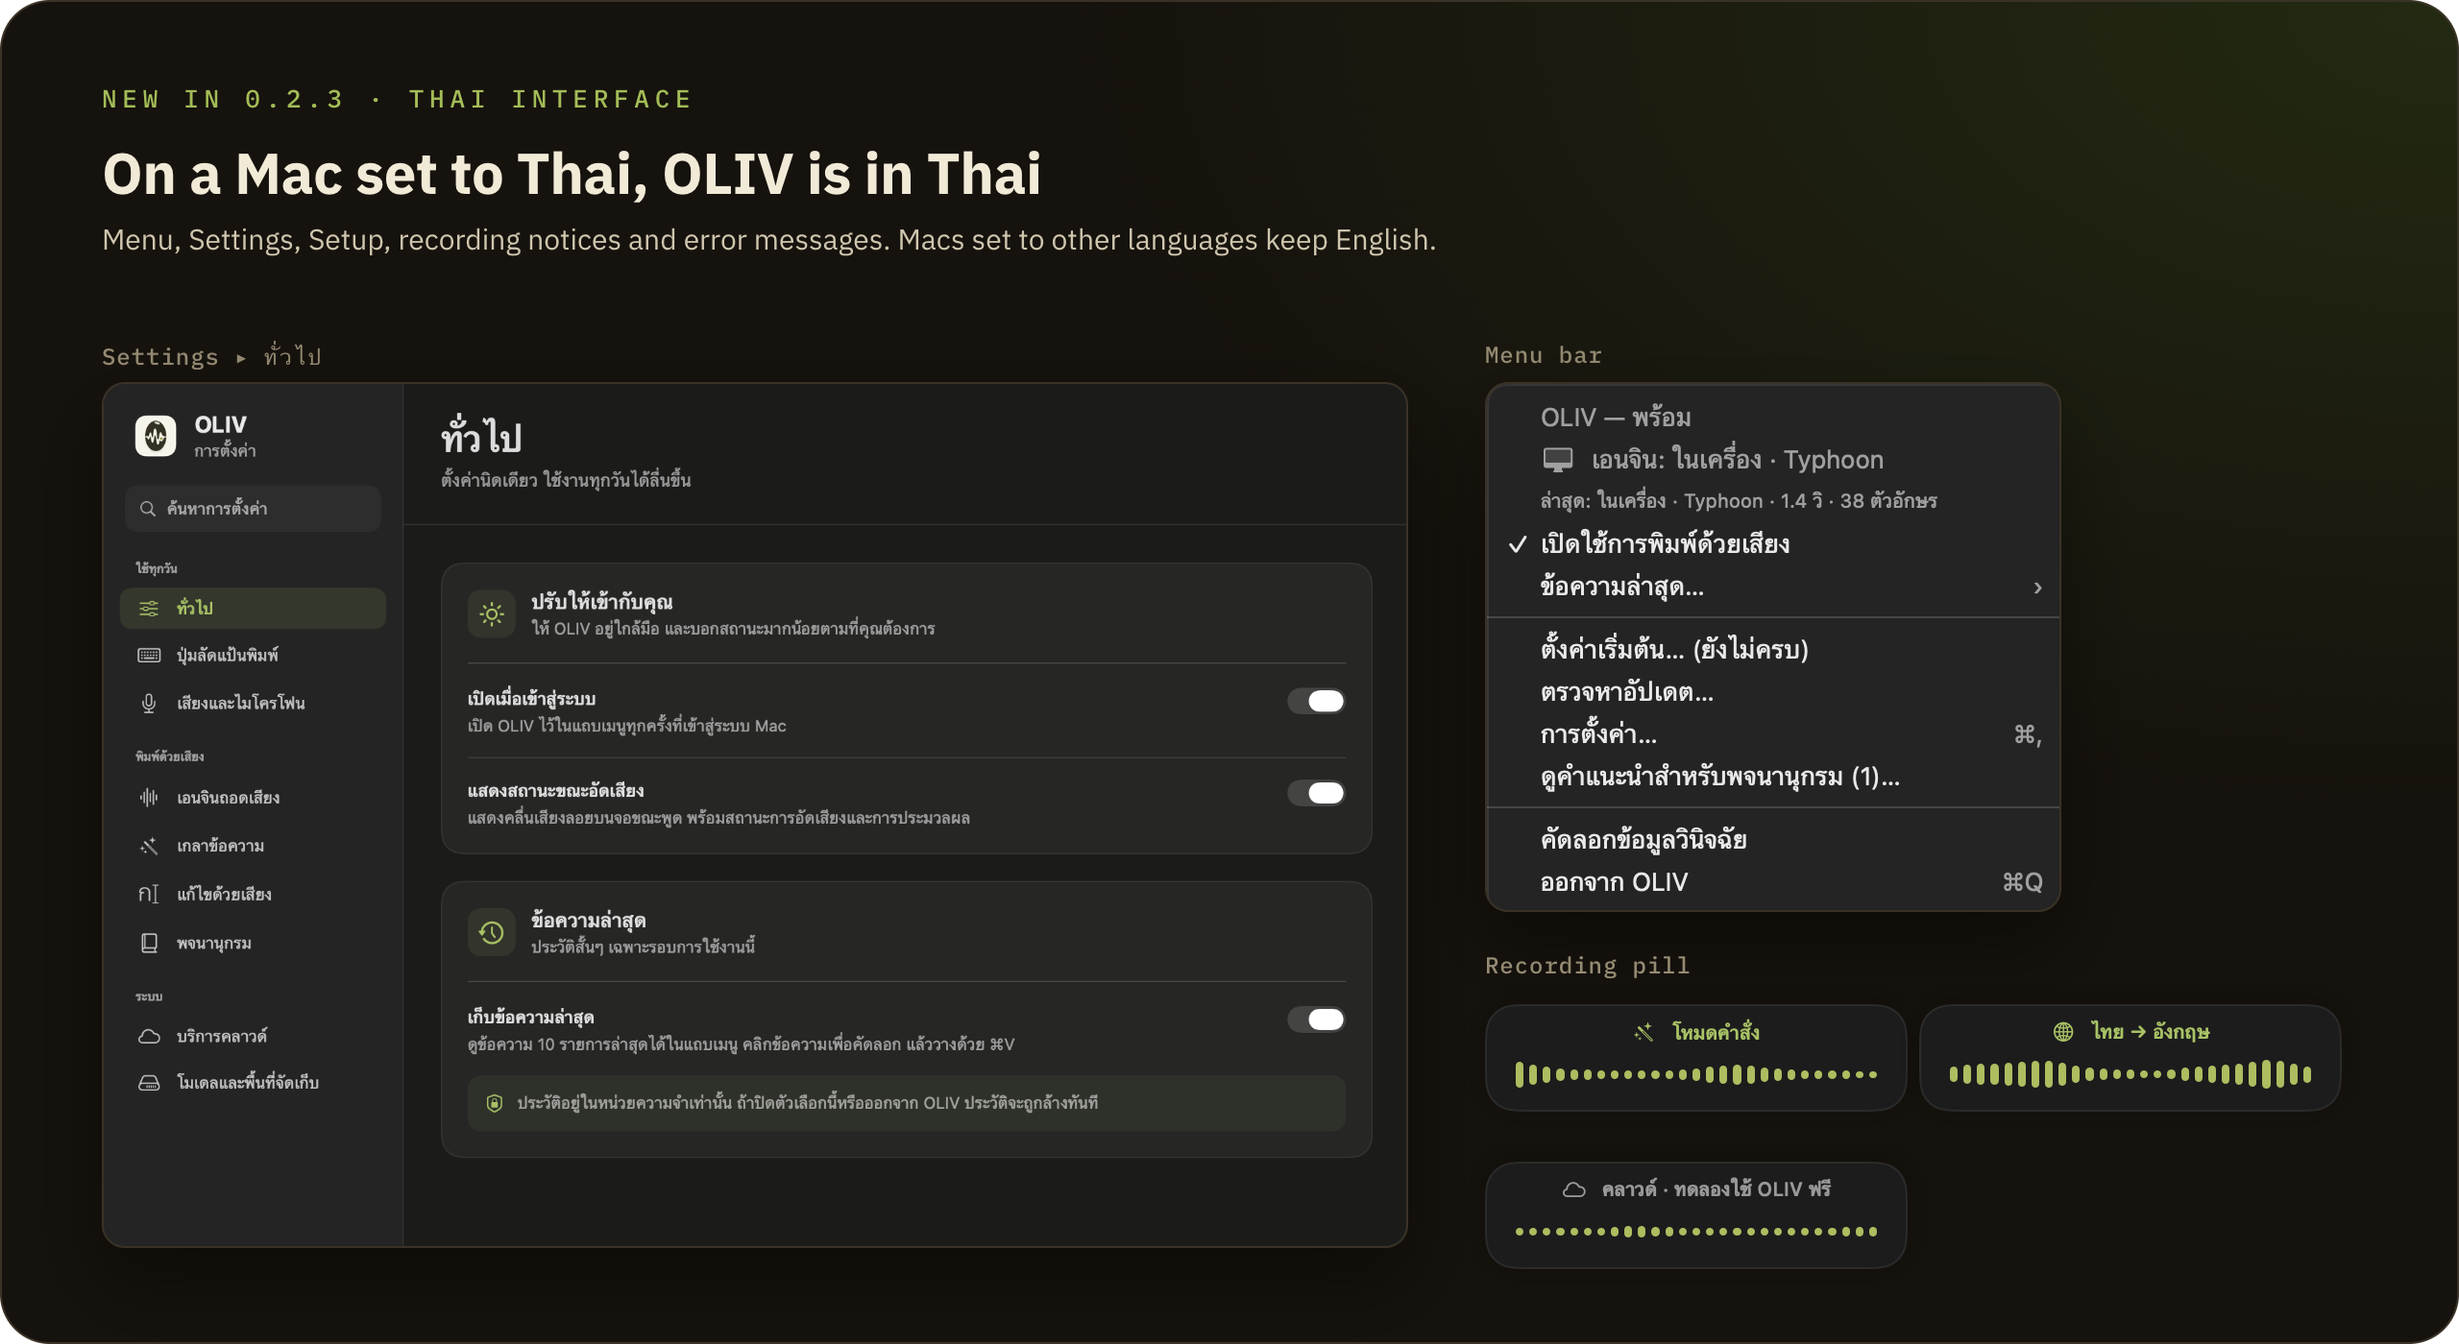
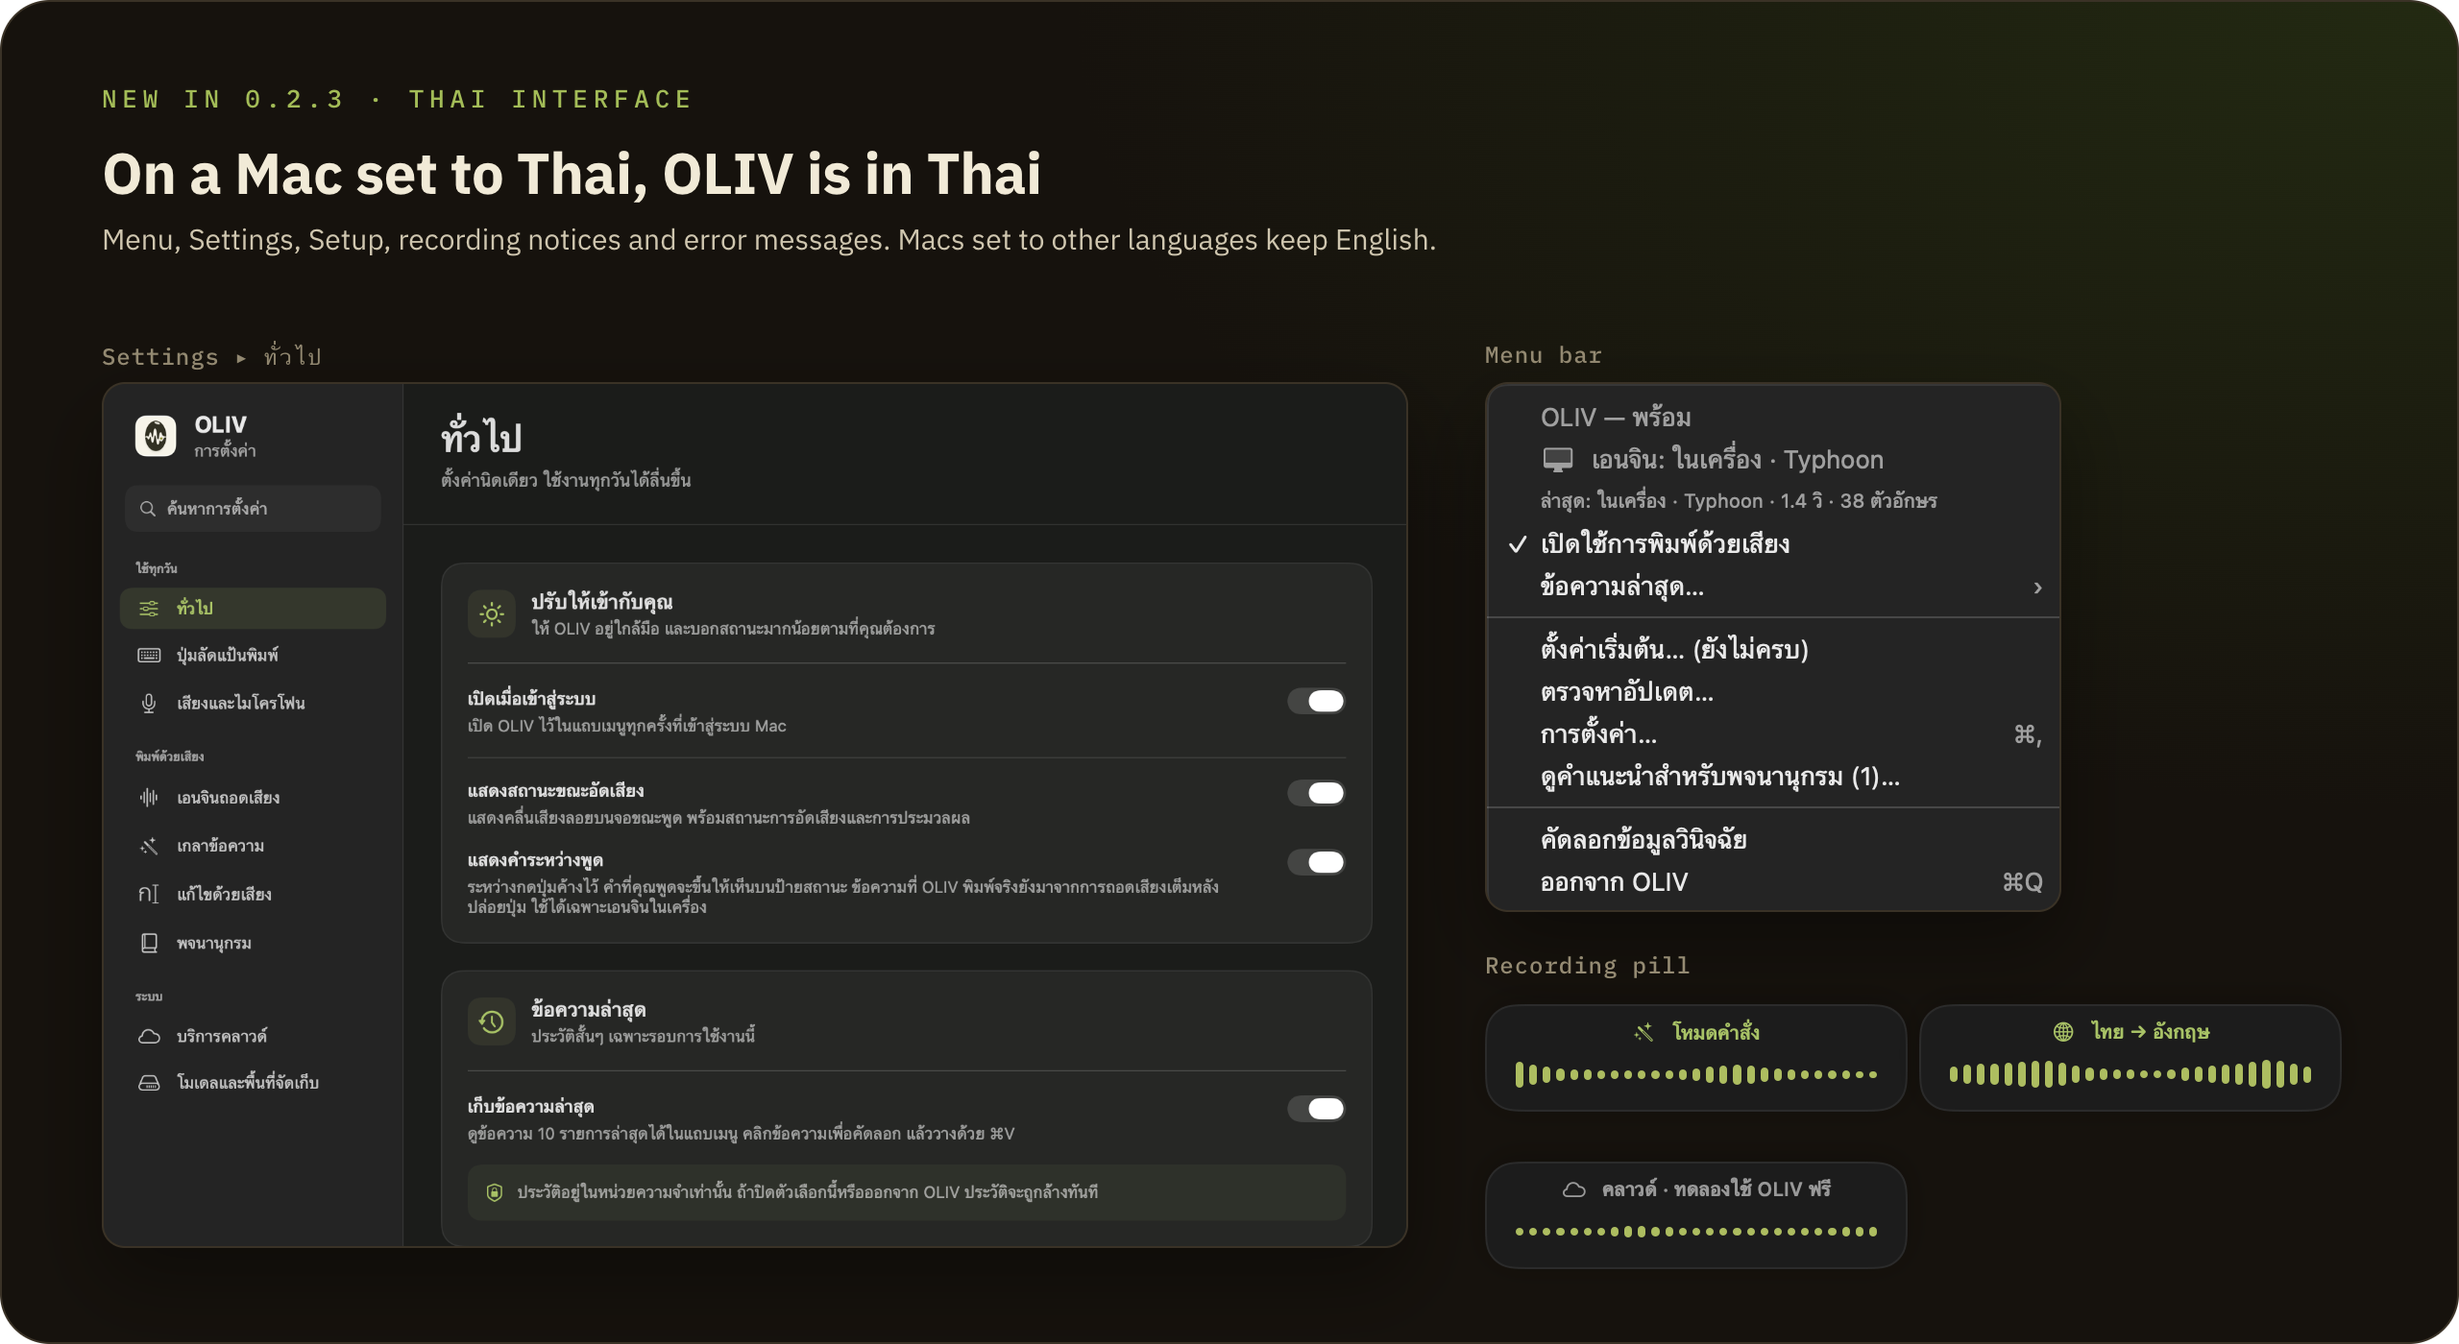
README: live preview and names on screen, in English and Thai
New sections with a live-preview GIF (real previews and final text for
public clip mx08) and a names-on-screen picture (the example from
oliv-text's screen tests). The Thai interface picture shows Settings ›
General with its new toggle, Command mode's notes follow the stricter
checks, and the Thai README calls the pill ป้ายสถานะ like the app does.

diff --git a/README.md b/README.md
@@ -42,13 +42,16 @@ Then you fix every word by hand. OLIV turns those words back into English, leave
 - ⚡ **About a second.** Median 1.0 s from releasing the key to text, measured on an M4 Pro.
 - ⌨ **Works in any app.** Slack, VS Code, Terminal with Claude Code, Notes, a browser: OLIV pastes wherever your cursor is.
 - ✍ **Edit by voice.** Select text and say "ทำให้สุภาพขึ้น", or speak Thai and get English. Both run on your Mac. *(new in 0.2.3)*
-- 📖 **Learns your words.** Names and jargon in your Dictionary come out spelled your way.
+- 👀 **See your words as you speak.** The pill shows what OLIV has heard while you hold the key, so you know early if it misheard. *(new in 0.2.3)*
+- 📖 **Learns your words.** Names and jargon in your Dictionary come out spelled your way. Turn on *Names on screen* and so do the names in the window you're typing into. *(new in 0.2.3)*
 - 🌏 **Thai interface.** On a Mac set to Thai, OLIV's menus, Settings and notices are in Thai. *(new in 0.2.3)*
 - 🆓 **Free and MIT-licensed.** No subscription, no account, no telemetry.
 
 ## What's new in 0.2.3
 
 - **[Voice editing](#voice-editing).** *Command mode* rewrites the text you select from a spoken instruction. *Speak Thai, type English* translates your dictation. Both are off by default.
+- **[See your words as you speak](#see-your-words-as-you-speak).** While you hold the key, the pill shows what OLIV has heard so far. On by default with on-device engines; the text OLIV types still comes from the full pass after you let go.
+- **[Names on screen](#names-on-screen).** Optional: OLIV reads the window you're dictating into and spells the names it shows, for that one dictation. That text never leaves your Mac.
 - **[Dictate while the models download](#first-run-download-or-free-trial).** An opt-in free trial through the OLIV server while the 5 GB download runs. It ends by itself.
 - **[Report a wrong result](#recent-dictations-and-wrong-result-reports).** Preview a report, edit it, then open it as a GitHub issue. OLIV sends nothing itself.
 - **[Thai interface](#thai-interface)** on Macs set to Thai.
@@ -64,9 +67,9 @@ Every release is in the [changelog](CHANGELOG.md).
   <img src="docs/img/readme/pipeline-light.png" alt="How OLIV works. Dictation, all on the Mac: hold a key and speak; Typhoon Whisper Turbo transcribes on MLX; the Rust core fixes known words, numbers and your Dictionary; Gemma E2B restores English words while guards keep your Thai; the text is pasted at the cursor. Voice editing, also on the Mac and off by default: Command mode takes selected text and a spoken instruction such as ทำให้สุภาพขึ้น, Gemma E2B rewrites it and guardrails check it, and it replaces the selection; Thai to English transcribes and cleans your Thai, Gemma E2B translates it, and English is pasted. Example: raw speech-to-text ตัวบิวท์เฟลล์เพราะดิเพนเดนซี่เวอร์ชั่นไม่ตรง becomes ตัว build fail เพราะ dependency version ไม่ตรง." width="100%">
 </picture>
 
-1. **Speak.** Hold the push-to-talk key (Right ⌥ by default). A small pill shows that OLIV is listening and which engine it's using.
+1. **Speak.** Hold the push-to-talk key (Right ⌥ by default). A small pill shows that OLIV is listening, which engine it's using and, with on-device engines, the words it has heard so far.
 2. **Transcribe.** Typhoon Whisper Turbo runs on the GPU with [MLX](https://github.com/ml-explore/mlx).
-3. **Fix known words.** A Rust core applies a built-in dictionary, sound-alike matching, number and `ๆ` formatting, and your Dictionary.
+3. **Fix known words.** A Rust core applies a built-in dictionary, sound-alike matching, number and `ๆ` formatting, and your Dictionary. With Names on screen on, names from the window you're typing into count too, ranked below your Dictionary.
 4. **Restore English.** A small on-device language model, [Gemma E2B](https://huggingface.co/mlx-community/gemma-4-e2b-it-4bit), turns Thai-spelled jargon back into English. Guards put back Thai the model rewrote, such as a changed number or a Thai name spelled in English.
 5. **Paste.** The text appears at your cursor. In apps you mark as verbatim, OLIV pastes the raw transcript.
 
@@ -103,6 +106,8 @@ The [interactive benchmark](https://chayapats.github.io/oliv/) has failures, pla
 | **Speech engines** | Typhoon Whisper Turbo (default, Thai + English), Pathumma, or Whisper large-v3 for mostly-English dictation. Each downloads in Settings with a progress bar. |
 | **Text cleanup** | Restores English words, removes fillers (อืม, เอ่อ, um), and formats Thai: `สี่สิบห้า` → `45`, `สองจุดสี่จุดหนึ่ง` → `2.4.1`, `มากมาก` → `มากๆ`. Spoken commands such as "ขึ้นบรรทัดใหม่" or "new paragraph" are off by default. |
 | **Dictionary** | Your names, acronyms and jargon guide recognition. Add a correction to turn what you say into exact text ("อีเมลของผม" → `me@example.com`). Thai entries also fix near-miss spellings (บางแคร์ → บางแค). Star, search, switch entries on and off, and import or export CSV. With the OLIV API it syncs to your other devices. |
+| **Live preview** | [Your words in the pill while you hold the key](#see-your-words-as-you-speak). On by default, on-device engines only. |
+| **Names on screen** | [Spell the names shown in the window you're dictating into](#names-on-screen). Off by default. |
 | **Voice editing** | [Command mode and Speak Thai, type English](#voice-editing). Off by default. |
 | **Verbatim apps** | Paste the raw transcript, without cleanup, in apps you choose. |
 | **Audio** | Pick any microphone, cancel speaker echo so music doesn't turn into text, and lower other audio while you talk. Both are on by default. |
@@ -111,6 +116,39 @@ The [interactive benchmark](https://chayapats.github.io/oliv/) has failures, pla
 | **Updates** | Signed and notarized builds, updated through Sparkle. |
 
 All settings live in the menu bar: click the OLIV icon, then **Settings…**.
+
+### See your words as you speak
+
+<picture>
+  <source media="(prefers-color-scheme: dark)" srcset="docs/img/readme/live-preview-dark.gif">
+  <img src="docs/img/readme/live-preview-light.gif" alt="Live preview demo in a chat app. The user holds Right Option and speaks Thai mixed with English. OLIV's pill shows On-device · Typhoon and a waveform, then grows to show what it has heard so far: first เดี๋ยวผมฟ้องกันครับ, then เดี๋ยวผม forward อีเมล นัดหมายให้ ใส่ไว้ในขั้น. On release the pill shrinks to Transcribing…, and OLIV pastes the full pass: เดี๋ยวผม forward email นัดหมายให้ใส่ไว้ใน calendar ด้วยนะ." width="100%">
+</picture>
+
+While you hold the key, the pill grows and shows the newest words OLIV has heard, so you know early if it misheard. A preview is a quick on-device guess: speech-to-text only, without cleanup or your Dictionary, so English words can still show in Thai script. When you let go, the full pass runs as before, and only its result is pasted. Previews are never pasted, saved or logged.
+
+- On by default. Turn it off with **Settings ▸ General ▸ Show words as you speak** (it needs **Show recording indicator**).
+- On-device engines only. With Groq, the OLIV API or the free trial, nothing is previewed and no extra audio is sent.
+- One preview at a time, at most about once a second, spaced so previews keep the GPU busy no more than 30% of the time. If they can't keep up on your Mac, OLIV turns them off until it restarts.
+- **Speed.** Measured on a busy M4 Pro (other jobs running, load 4 to 112), in paired runs against a control with previews off in both arms: with previews forced on for every hold, text after release came no later (paired median −54 ms; control +1 ms). A release that caught a preview mid-way waited a median 22 ms for it to stop, 287 ms at worst. Final text was byte-identical with previews on and off in all 391 clip pairs. Not yet measured on a quiet Mac or an M1 ([details](https://github.com/chayapats/oliv/pull/44)).
+
+The text in the GIF is what OLIV returned for public benchmark clip mx08: each preview, at the pace the app runs them, then the final pass.
+
+### Names on screen
+
+<picture>
+  <source media="(prefers-color-scheme: dark)" srcset="docs/img/readme/names-on-screen-dark.png">
+  <img src="docs/img/readme/names-on-screen-light.png" alt="Names on screen. A team chat where a message spells the visitor's name ณรงค์พงษ์. The user dictates that the visitor has arrived. With Names on screen off, OLIV types คุณณรงค์พงศ์มาแล้ว, a common spelling of the same-sounding name; with it on, OLIV types คุณณรงค์พงษ์มาแล้ว, spelled the way the chat shows it. Notes: read when you start dictating, used for that one dictation, never saved or sent; your Dictionary wins; off by default." width="100%">
+</picture>
+
+Optional and off by default: turn on **Settings ▸ Text cleanup ▸ Spell names that are on screen**. When you start dictating, OLIV reads the window you're typing into through Accessibility, picks out up to 50 likely names and terms, and uses them for that one dictation. A coworker's name in a chat or a customer's in an email comes out spelled the way it's shown, without adding it to your Dictionary.
+
+- Your Dictionary always wins, and a name from the screen has to sound closer than a Dictionary word before it replaces anything.
+- The text stays in memory on your Mac for that dictation. It is never saved, logged or sent, not even with Groq, which still gets only your audio.
+- It skips password fields, password managers and verbatim apps, and doesn't run while secure input is on. It isn't used for Command mode, nor with the OLIV API engine or the free trial, whose cleanup runs on the server. It needs Text cleanup on.
+- Electron apps such as Slack's desktop app, Discord and VS Code show little of their text to Accessibility unless an app switches on their accessibility mode (`AXManualAccessibility`). OLIV doesn't, so it sees little there. Native apps such as Mail, Messages, Notes and TextEdit, and web pages in Safari, work. Chrome hasn't been tested.
+- On [Thai ContextASR Bench](benchmark/contextasr.md#names-on-screen-2026-11), with each utterance's list of names shown as the window's text, OLIV recognized 57% of the listed names, against 43% with no list. With a window of only unrelated names, 1 of 2,062 utterances came out worse.
+
+The example in the picture is from OLIV's tests: one transcript, with and without ณรงค์พงษ์ on screen.
 
 ### Recent dictations and wrong-result reports
 
@@ -144,8 +182,8 @@ New in 0.2.3 and off by default: turn it on in **Settings ▸ Voice editing**. B
 Select text in any app, hold the Command mode shortcut (Right ⌘ by default) and say what to change: "ทำให้สุภาพขึ้น", "สั้นลง", "สรุปเป็น bullet", "แก้คำผิด", "เขียนเป็นอีเมล", "ทางการขึ้น". OLIV replaces the selection, and the undo shortcut puts the original back.
 
 - With nothing selected, it edits the text OLIV just pasted, in apps that let OLIV read it.
-- If a guardrail rejects the edit (a lost term or number, an answer instead of an edit, the wrong language), your text stays as it was.
-- If you switch apps or change the selection while OLIV works, the edit goes to the clipboard instead.
+- If a guardrail rejects the edit (a term that went missing, a number that changed, lost its minus sign or appeared from nowhere, an answer instead of an edit, the wrong language), your text stays as it was.
+- OLIV edits the selection you had when you let go of the key. If you switch apps or change the selection right after, your text is left alone; if you do it while OLIV is writing the edit, the edit goes to the clipboard instead.
 - It never reads password fields and never runs in verbatim apps or password managers.
 
 ### Speak Thai, type English
@@ -274,6 +312,8 @@ What leaves your Mac depends on the engine you choose:
 | **OLIV API** | Your recordings and your Dictionary | Your server, and whatever terminates TLS in front of it |
 | **Groq** | Your recordings and your Dictionary words, as recognition hints | Groq |
 | **Voice editing** | Nothing: selected text is edited and translated on the Mac | – |
+| **Live preview** | Nothing: previews run only with on-device engines | – |
+| **Names on screen** (opt-in) | Nothing: the window's text is read on the Mac for one dictation, then dropped | – |
 
 - Cloud engines are off until you add a key and select one. The free trial is the one exception you can opt into in Setup; it's labelled Cloud and ends by itself.
 - The OLIV server keeps audio and text in memory only. Its usage log records key, route, status and timings ([server privacy](server/README.md#data-and-privacy)).
@@ -309,7 +349,7 @@ Yes. Typhoon Whisper Turbo handles Thai, English and mixed speech. For mostly-En
 <details>
 <summary><b>Why does OLIV need Accessibility permission?</b></summary>
 
-To paste into the app you're using. In Command mode it also reads the text you selected, only while you use the Command mode shortcut, and never from a password field.
+To paste into the app you're using. In Command mode it also reads the text you selected, only while you use the Command mode shortcut, and never from a password field. If you turn on Names on screen, it reads the window you're dictating into when you start, never a password field or a password manager.
 </details>
 
 <details>
